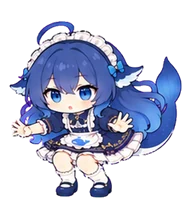
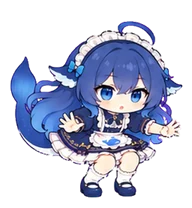
fix(skin): 鲸鱼娘跳跃朝向真的修好了 —— dense-jump 整段是镜像的
上一版把 jump 从 dense-jump 第 9 帧换到第 7 帧，其实没解决问题：那只是换了个
姿势，整个 dense-jump 图集本身就是镜像的，任何一帧拿出来都「面朝左」。

这次不靠眼睛看（头发和尾鳍甩向哪边会骗人），改成量「脸」：

- 取头部高度带里的肤色像素，比较它们的横向重心与头部包围盒中心；
  实测 walk 用的 inbetween-walk 是 +70，dense-jump 每一帧都是 −15 ~ −52 ——
  dense-jump 相对步态整体镜像；
- 拿一个已知朝右的 walk 帧镜像一下做符号自检：+58 → −59，约定成立（正 = 朝右）；
- 于是给派生脚本加 flip：jump（dense-jump 7）与 dive（dense-jump 21）水平镜像
  翻回来（dive 其实一直是反的，一起修了）；镜像只改方向，不动配色与形状；
- 脚本渲染完会**重新量一遍每个状态的朝向**，必须和步态同向，否则直接报错退出，
  下次再有人换帧会被立刻拦下；
- attribution 补了「Direction」一节：测量方法、上游实测数据、以及镜像这件事。

新增回归测试：断言 jump / dive 被标成镜像、walk 不镜像、脚本自带方向自检、
attribution 记录了镜像。测试 1052 项全绿。

diff --git a/tools/derive-character-assets.py b/tools/derive-character-assets.py
@@ -43,27 +43,34 @@ CANVAS = (192, 208)
 MARGIN = {"l": 8, "r": 8, "t": 6, "b": 10}
 HEAD_SIZE = 96
 
-# 语义状态 -> (图集, cell, 帧号, 每帧毫秒)
+# 语义状态 -> (图集, cell, 帧号, 每帧毫秒, 是否水平镜像)
+#
+# 关于 flip：上游 inbetween-walk（walk 用的那套步态）是**朝右**的，
+# 但整个 dense-jump 图集是镜像的 —— 实测「脸相对头部中心的横向偏移」walk 组是
+# +70，dense-jump 每一帧都是 −15 ~ −52。也就是说跳跃 / 下潜在 Whale Runner 里
+# 会倒着飞（用户报的就是这个）。dense-jump 里没有任何一帧是朝右的，
+# 所以只能整组水平镜像翻回来；镜像不改变配色与形状，只是方向。
 GROUPS = {
-    # motion-idle [0,1,2,3]：上游 clips.shift / clips.settle 用的轻微换重心
-    "idle": ("motion-idle", 512, [0, 1, 2, 3], 260),
-    # inbetween-walk ＝上游现在真正播放的整身步态：
+    # motion-idle [0,1,2,3]：上游 clips.shift / clips.settle 用的轻微换重心（正面）
+    "idle": ("motion-idle", 512, [0, 1, 2, 3], 260, False),
+    # inbetween-walk ＝上游现在真正播放的整身步态（朝右）：
     #   clips.right = inbetween-walk [0,1,3,2,4,5,6,7,8,9,11,10,12,13,14,15] @60ms
     # 按上游的播放顺序等间隔抽 8 帧，帧时长 ×2（120ms）＝ 保留上游 960ms 的步频。
-    "walk": ("inbetween-walk", 512, [0, 3, 4, 6, 8, 11, 12, 14], 120),
-    # dense-jump 属于 clips.jump 的腾空段。[7] 是其中侧身朝右、和步态同向的一帧；
-    # 上游这一段里 9 / 13 的头发与尾鳍甩向另一侧，单独拿出来会看起来「面朝左」，
-    # 在 Whale Runner 里会和走路的朝向打架，所以不用。
-    "jump": ("dense-jump", 512, [7], 400),
-    # dense-jump 21 ＝ clips.land 的落地压缩帧，低姿态也朝右
-    "dive": ("dense-jump", 512, [21], 400),
-    # story-token 0 ＝ clips.think 第一帧（低头看 token 的工作姿势）
-    "think": ("story-token", 384, [0], 400),
-    # actions 14 ＝ clips.surprise 用到的惊慌帧（带惊叹号）
-    "startle": ("actions", 512, [14], 300),
-    # expressions 14 ＝ clips.shock 用到的崩溃 / 委屈帧
-    "blocked": ("expressions", 512, [14], 400),
+    "walk": ("inbetween-walk", 512, [0, 3, 4, 6, 8, 11, 12, 14], 120, False),
+    # dense-jump 7 ＝ clips.jump 腾空段：侧身腾空，但整段是镜像的，翻回来
+    "jump": ("dense-jump", 512, [7], 400, True),
+    # dense-jump 21 ＝ clips.land 的落地压缩帧，同样翻回来
+    "dive": ("dense-jump", 512, [21], 400, True),
+    # story-token 0 ＝ clips.think 第一帧（低头看 token 的工作姿势，正面）
+    "think": ("story-token", 384, [0], 400, False),
+    # actions 14 ＝ clips.surprise 用到的惊慌帧（带惊叹号，正面）
+    "startle": ("actions", 512, [14], 300, False),
+    # expressions 14 ＝ clips.shock 用到的崩溃 / 委屈帧（正面）
+    "blocked": ("expressions", 512, [14], 400, False),
 }
+
+# 这些状态在游戏里必须和步态同向（Whale Runner 一直往右游），派生完会自检
+MUST_FACE_RIGHT = ("jump", "dive")
 STATE_ORDER = ["idle", "walk", "jump", "dive", "think", "startle", "blocked"]
 
 
@@ -73,6 +80,38 @@ def atlas_frame(path, cols, index):
     cell = im.width // cols
     row, col = divmod(index, cols)
     return im.crop((col * cell, row * cell, (col + 1) * cell, (row + 1) * cell))
+
+
+def face_side(im):
+    """肤色（脸）重心相对头部包围盒中心的横向偏移：正数 = 脸偏右 = 朝右。
+
+    这是判断朝向的量化办法，不看头发和尾巴 —— 它们会骗人（跳起来的时候
+    头发和尾鳍甩向哪边，和角色到底面朝哪边并不一致）。"""
+    bbox = im.split()[3].getbbox()
+    if not bbox:
+        return None
+    x0, y0, x1, y1 = bbox
+    band = im.crop((x0, y0, x1, y0 + int((y1 - y0) * 0.46)))     # 头部（含头发）
+    bb = band.split()[3].getbbox()
+    if not bb:
+        return None
+    cx = (bb[0] + bb[2]) / 2.0
+    px = band.load()
+    sx = []
+    for y in range(band.height):
+        for x in range(band.width):
+            r, g, b, a = px[x, y]
+            if a > 200 and r > 205 and 150 < g < 228 and 120 < b < 210 and r > g > b:
+                sx.append(x)
+    if len(sx) < 24:
+        return None
+    return sum(sx) / len(sx) - cx
+
+
+def mean_face(images):
+    vals = [face_side(im) for im in images]
+    vals = [v for v in vals if v is not None]
+    return sum(vals) / len(vals) if vals else None
 
 
 def clean_alpha(im, threshold=8):
@@ -154,9 +193,11 @@ def derive(src, out_dir, verbose=True):
     #    这样换状态时角色大小不会变。
     groups = {}
     for state in STATE_ORDER:
-        atlas, cell, frames, ms = GROUPS[state]
+        atlas, cell, frames, ms, flip = GROUPS[state]
         path = os.path.join(whale, atlas + ".png")
         raw = [atlas_frame(path, 4, f) for f in frames]
+        if flip:                              # 方向修正，见 GROUPS 注释
+            raw = [im.transpose(Image.FLIP_LEFT_RIGHT) for im in raw]
         k = CELL_BASE / float(cell) if cell != CELL_BASE else 1.0   # 按 512 基准归一化
         bboxes = [im.split()[3].getbbox() for im in raw]
         if any(b is None for b in bboxes):
@@ -178,6 +219,7 @@ def derive(src, out_dir, verbose=True):
 
     baseline = ch - MARGIN["b"]
     info = {}
+    rendered_by_state = {}
     for state in STATE_ORDER:
         g = groups[state]
         k, s = g["k"], scale
@@ -194,6 +236,7 @@ def derive(src, out_dir, verbose=True):
             canvas.alpha_composite(resized, (int(round(ox - g["group_bbox"][0] * k * s)),
                                              int(round(oy - g["group_bbox"][1] * k * s))))
             rendered.append(clean_alpha(canvas))
+        rendered_by_state[state] = rendered
         files, seq = emit(rendered, state, out_dir, lossless=False)
         info[state] = {"files": files, "seq": seq, "ms": g["ms"], "atlas": g["atlas"]}
         if verbose:
@@ -218,6 +261,23 @@ def derive(src, out_dir, verbose=True):
     info["headThink"] = {"files": ["head-think.webp"], "seq": [0], "ms": 1000, "atlas": "story-token.png"}
     if verbose:
         print("  %-8s %-16s head.webp / head-think.webp" % ("head", "portrait.png"))
+
+    # 3) 方向自检：必须和步态同向的状态，脸的横向偏向要同号。
+    #    只看头发 / 尾鳍会判断错（dense-jump 整段就是反的），所以量的是脸。
+    ref = mean_face(rendered_by_state["walk"])
+    if verbose:
+        print("  方向自检（脸相对头部中心的偏移，正数 = 朝右；walk 基准 %+.1f）" % (ref or 0))
+    for state in STATE_ORDER:
+        got = mean_face(rendered_by_state[state])
+        label = "%+.1f" % got if got is not None else "测不出"
+        if verbose:
+            print("    %-8s %s%s" % (state, label, "  <- 必须同向" if state in MUST_FACE_RIGHT else ""))
+        if state in MUST_FACE_RIGHT:
+            if got is None or ref is None:
+                raise SystemExit("方向自检失败：%s 或 walk 测不出朝向" % state)
+            if (got > 0) != (ref > 0):
+                raise SystemExit("方向自检失败：%s（%+.1f）和步态（%+.1f）朝向相反，"
+                                 "该组需要 flip=True" % (state, got, ref))
     return info
 
 

diff --git a/assets/whale-yunyue/ATTRIBUTION.md b/assets/whale-yunyue/ATTRIBUTION.md
@@ -37,8 +37,8 @@ row-major, exactly as `src/renderer/app.js` slices them.
 | --- | --- | --- | --- |
 | `idle-0..3.webp` | `motion-idle.png` (cell 512) | 0, 1, 2, 3 | 待机轻微换重心（上游 `clips.shift` / `clips.settle` 用的就是这几张） |
 | `walk-0..7.webp` | `inbetween-walk.png` (cell 512) | 0, 3, 4, 6, 8, 11, 12, 14 | 上游 `clips.right` 真正播放的整身步态；按上游 16 帧播放顺序等间隔取 8 帧，帧时长 ×2 后总时长仍是上游的 960ms |
-| `jump.webp` | `dense-jump.png` (cell 512) | 7 | `clips.jump` 腾空段里**侧身朝右**的一帧。同段的 9 / 13 头发与尾鳍甩向另一侧，单独取出来会看起来「面朝左」，和步态朝向冲突，因此未采用 |
-| `dive.webp` | `dense-jump.png` (cell 512) | 21 | `clips.land` 的落地压缩帧，用作低姿态 / 下潜 |
+| `jump.webp` | `dense-jump.png` (cell 512) | 7 | `clips.jump` 的腾空帧，**水平镜像**后使用（见下方第 3 条）。整个 `dense-jump` 图集都是镜像的，见「Direction」一节 |
+| `dive.webp` | `dense-jump.png` (cell 512) | 21 | `clips.land` 的落地压缩帧，用作低姿态 / 下潜，**同样水平镜像** |
 | `think.webp` | `story-token.png` (cell 384) | 0 | `clips.think` 第一帧（低头看 token 的工作姿势） |
 | `startle.webp` | `actions.png` (cell 512) | 14 | `clips.surprise` 用到的惊慌帧（带惊叹号） |
 | `blocked.webp` | `expressions.png` (cell 512) | 14 | `clips.shock` 用到的崩溃 / 委屈帧 |
@@ -55,17 +55,47 @@ upstream material. Nothing was redrawn and no colour was changed. The pipeline w
 2. **Scale normalisation** — every atlas was normalised to a common 512-pixel
    reference cell (`×512/cell`) so the character keeps the same size across
    states. Integer factor, no distortion.
-3. **Fixed crop window per pose group** — all frames of one state (e.g. the whole
+3. **Direction fix (horizontal mirroring)** — the upstream `dense-jump` atlas is
+   mirrored relative to the `inbetween-walk` gait, so `jump.webp` and `dive.webp`
+   are flipped left↔right. Mirroring only changes the facing direction: the
+   palette, linework and proportions are untouched. See "Direction" below.
+4. **Fixed crop window per pose group** — all frames of one state (e.g. the whole
    walk cycle) share a single crop rectangle and a single transform, so the
    character cannot jitter or drift between frames.
-4. **Uniform rescale** — the whole set is scaled by one factor (0.4595) into a
+5. **Uniform rescale** — the whole set is scaled by one factor (0.4595) into a
    shared **192×208** RGBA canvas; the original aspect ratio is preserved.
-5. **Bottom alignment** — each pose group's alpha bounding box is aligned to the
+6. **Bottom alignment** — each pose group's alpha bounding box is aligned to the
    same ground baseline, so the character's feet always land on the same line.
-6. **Alpha edge cleanup** — alpha values below 8/255 are zeroed to remove faint
+7. **Alpha edge cleanup** — alpha values below 8/255 are zeroed to remove faint
    edge halos. RGB values are untouched.
-7. **Format change** — re-encoded from PNG to **WebP (quality 88)** to keep the
+8. **Format change** — re-encoded from PNG to **WebP (quality 88)** to keep the
    runtime payload small (≈214 KB for all 19 files).
+
+## Direction
+
+Whale Runner always swims to the right, so every pose that is not front-facing has
+to look to the right. Judging that by eye is unreliable — the hair plume and the
+tail fin swing to whichever side the pose happens to swing them, which is *not* the
+same as the direction the character is facing.
+
+So the facing is measured: take the skin-tone (face) pixels in the head band and
+compare their horizontal centre of mass with the head bounding box centre.
+**Positive = the face sits right of the head centre = facing right.** As a sanity
+check, mirroring a known right-facing walk frame flips its value from +58 to −59.
+
+Measured on the upstream atlases:
+
+| Upstream atlas | Face offset | Facing |
+| --- | --- | --- |
+| `inbetween-walk` (the gait we use) | **+70** | right |
+| `dense-jump` (every frame) | **−15 … −52** | **left — the whole atlas is mirrored** |
+| `motion-idle`, `story-token`, `actions`, `expressions` | ≈ 0 | front-facing |
+
+That is why `jump.webp` and `dive.webp` are mirrored: no frame of `dense-jump`
+faces right, so flipping the group is the only way to make the jump match the gait.
+`tools/derive-character-assets.py` marks them with `flip=True` and **re-measures
+every state after rendering**, refusing to finish if a state that must follow the
+gait ends up facing the other way.
 
 ## Third-party rights boundary
 
@@ -95,9 +125,13 @@ this licence.
 - 上游授权是 **大肥鱼项目署名许可 1.0**（自定义许可，**不是 MIT**），全文见
   `LICENSES/YUNYUE-WHALE-PET-LICENSE.txt`；使用时必须署名
   「作者：YunYueSama / 仓库：https://github.com/YunYueSama/codex-deepseek-pet」。
-- 本项目做过的处理：**挑帧 → 按 512 基准统一缩放 → 每个姿势组一个固定裁剪窗口 →
-  等比缩放到底部对齐的 192×208 画布 → 清理极低 alpha 毛边 → 重新编码为 WebP**。
-  没有重画、没有改色。
+- 本项目做过的处理：**挑帧 → 方向修正（跳跃 / 下潜水平镜像，见下）→ 按 512 基准统一缩放
+  → 每个姿势组一个固定裁剪窗口 → 等比缩放到底部对齐的 192×208 画布 → 清理极低 alpha 毛边
+  → 重新编码为 WebP**。没有重画、没有改色。
+- **方向修正**：上游 `inbetween-walk`（走路用的那套）朝右，但整个 `dense-jump` 图集是镜像的
+  （实测「脸的横向偏移」走路是 +70，dense-jump 每帧都是 −15 ~ −52）。Whale Runner 一直往右游，
+  所以跳跃 / 下潜必须翻回来，否则会「倒着飞」。派生脚本对这两组标 `flip=True`，
+  并且**渲染完会重新量一遍朝向**，方向不对就直接报错退出。
 - **没有使用** `design/references/` 里的社区参考图；只用了上游自己运行时播放的
   动画图集。
 - 本项目为非官方同人作品，与 DeepSeek 官方无关联。
